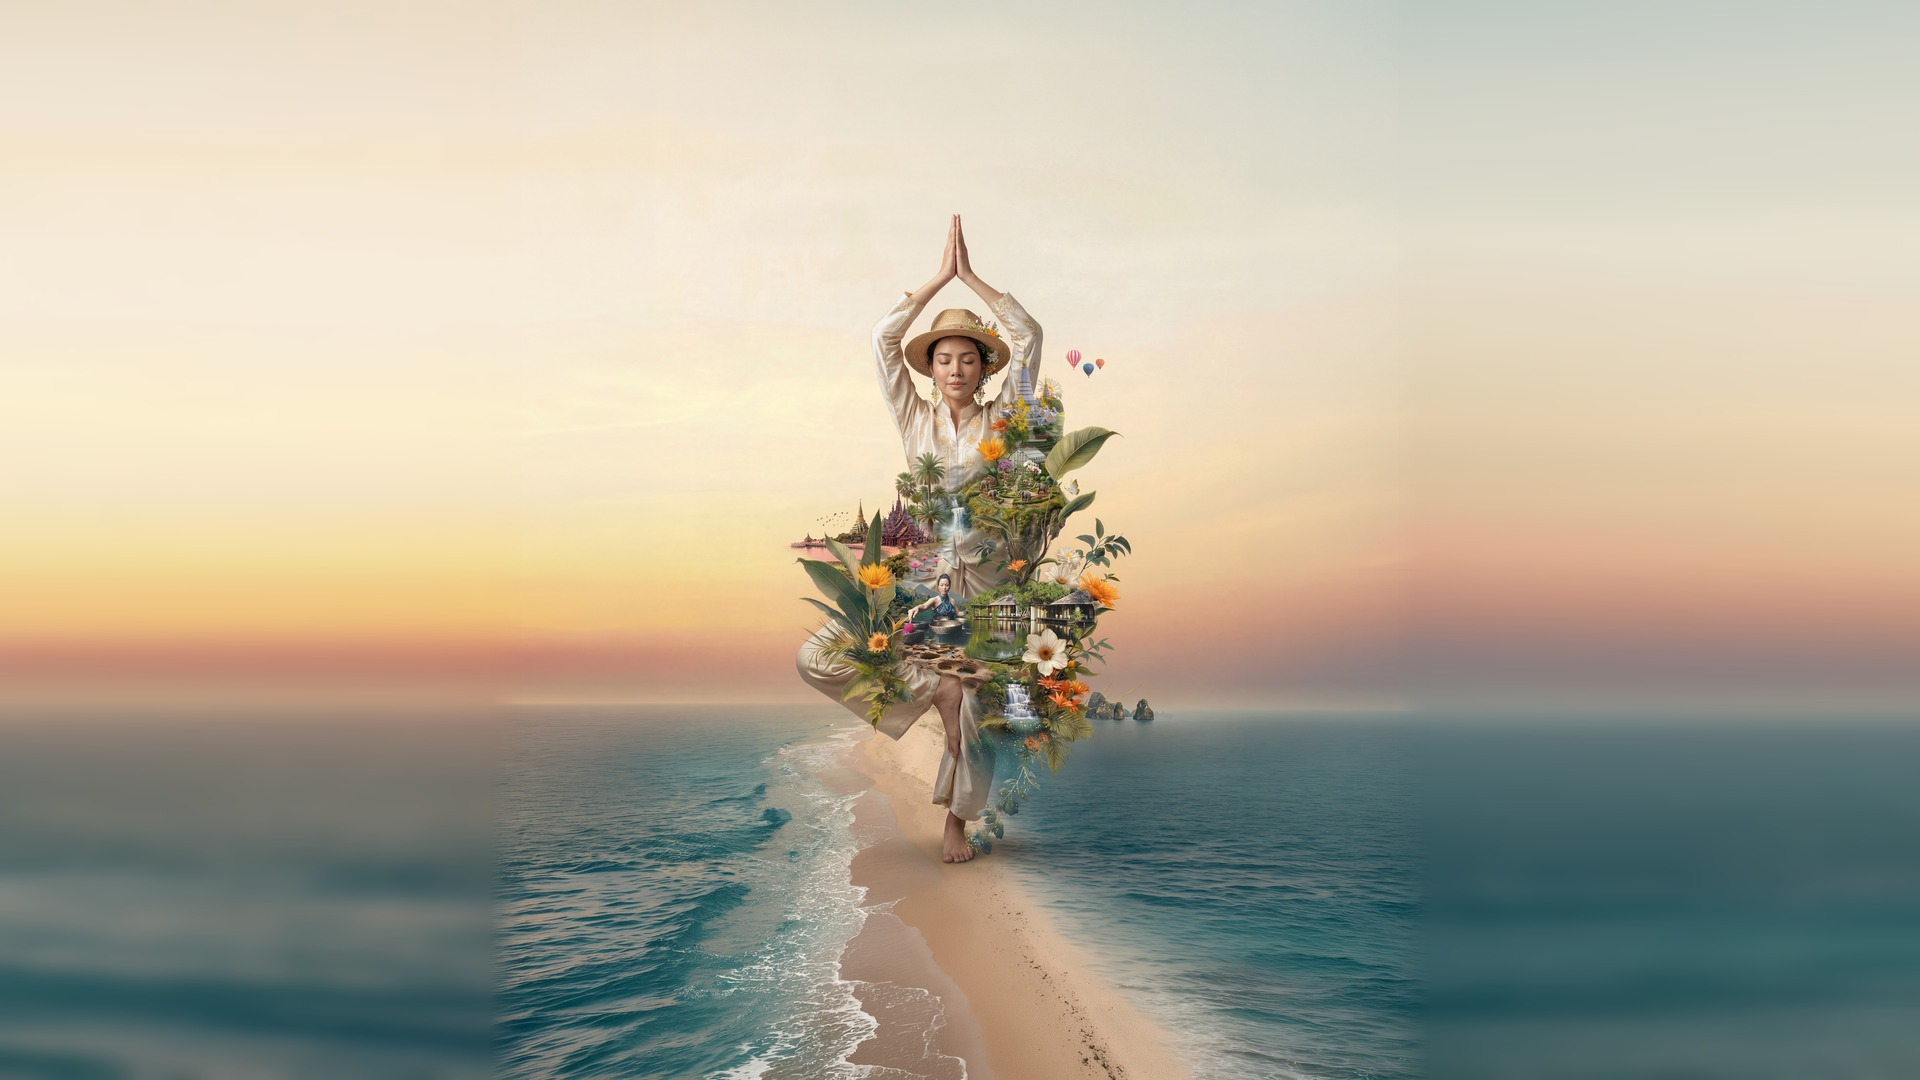
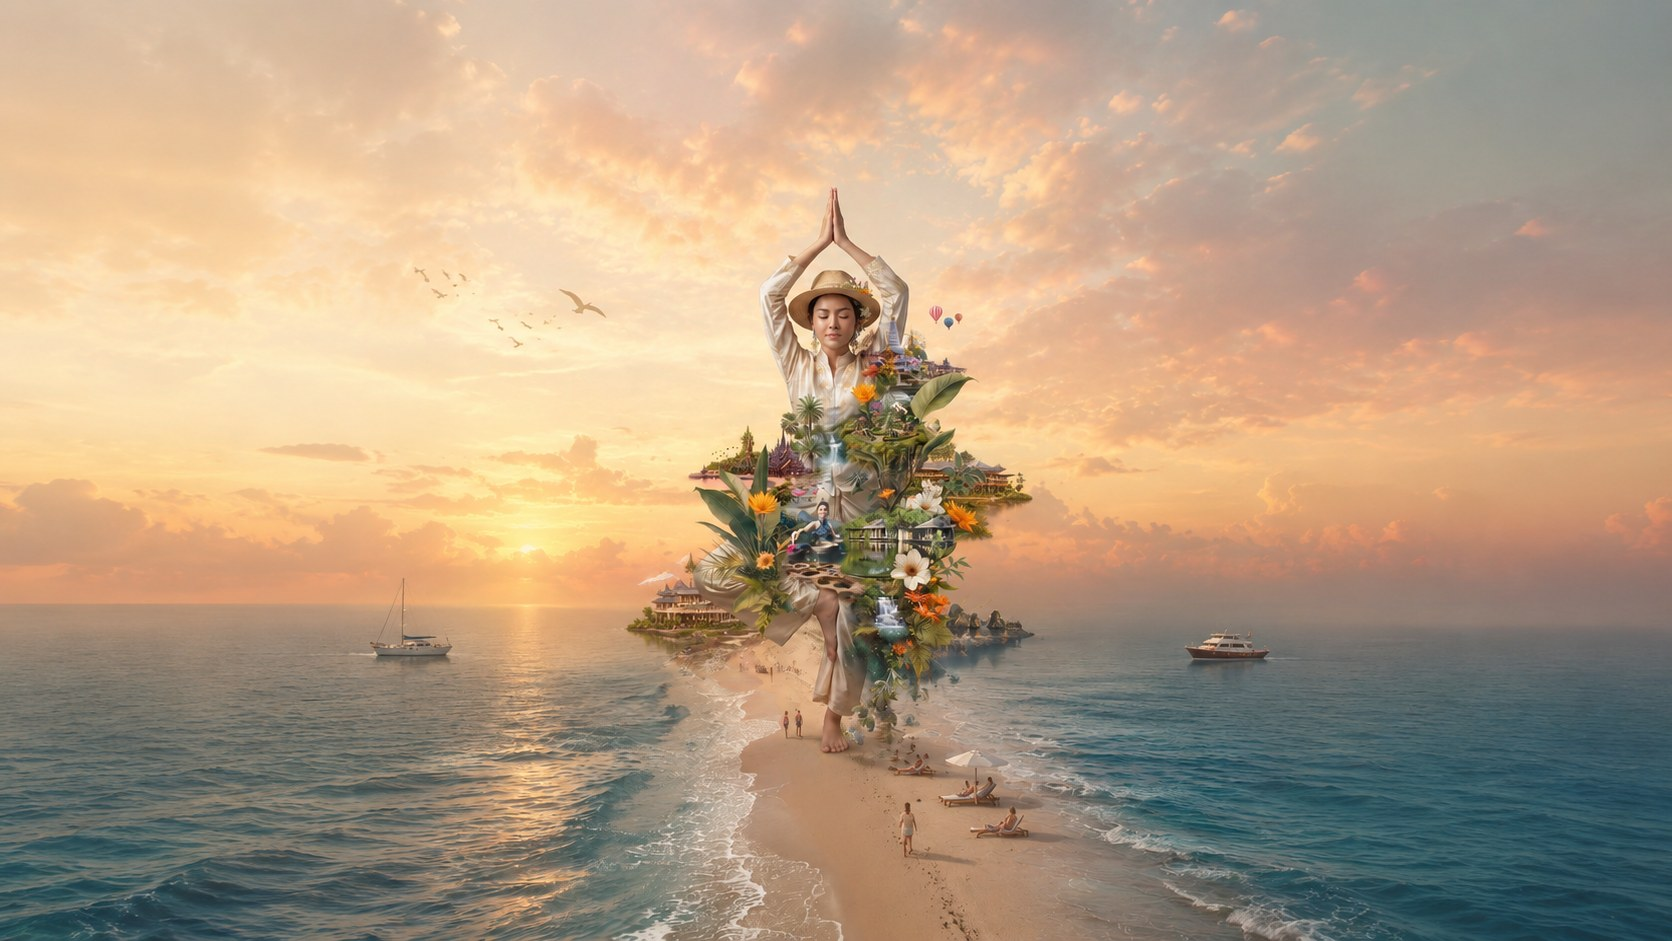
dashboard: layout refine — survey/offset/daily/benefits flex, footer center, sweep clip fix
- Survey Respondents enlarged, Carbon Offset compact (left column)
- Daily Waste enlarged, Benefits anchored to bottom edge (right column)
- Footer "Powered by" centered; Live + ISO note grouped left
- Carbon Neutral badge white bg + right-aligned; meta one line; bigger sponsor logo
- Donuts enlarged (scope + waste); Zero Waste logo moved into waste card
- Fix: Live sweep escaping container in fit-natural zoom (removed overflow:visible)
- BG updated to V.2

diff --git a/index.html b/index.html
@@ -11,10 +11,10 @@
 
 :root{
   --cream:#FBEFDD;--peach:#F4C99E;--coral:#E8956B;--rose:#D97B6C;
-  --teal:#5FA8A2;--teal-d:#2E6360;--gold:#F2B84B;
-  --ink:#3A2A22;--ink-soft:#6b554a;
-  --glass:rgba(255,255,255,.52);--glass-line:rgba(255,255,255,.62);
-  --glass-soft:rgba(255,255,255,.6);
+  --teal:#5FA8A2;--teal-d:#123f3b;--gold:#F2B84B;
+  --ink:#123f3b;--ink-soft:#405955;
+  --glass:rgba(255,255,255,.86);--glass-line:rgba(255,255,255,.72);
+  --glass-soft:rgba(255,255,255,.92);
   --s1:#E8956B;--s2:#F2B84B;--s3:#4E9E9A;
   --shadow:0 10px 36px rgba(60,40,30,.18);--radius:20px;
 }
@@ -30,124 +30,138 @@ body{font-family:'TATSana','Segoe UI',system-ui,-apple-system,sans-serif;color:v
 .leaf{position:absolute;top:-8vh;will-change:transform;animation:fall linear infinite}
 @keyframes fall{0%{transform:translateY(-10vh) translateX(0) rotate(0)}100%{transform:translateY(112vh) translateX(12vw) rotate(420deg)}}
 
-#app{position:relative;height:100vh;width:100vw;display:flex;flex-direction:column;padding:clamp(8px,1.1vw,18px);gap:clamp(6px,.8vw,12px)}
+#app{position:relative;height:100vh;width:100vw;display:flex;flex-direction:column;padding:clamp(5px,.85vh,11px) clamp(6px,.7vw,12px);gap:clamp(3px,.5vh,7px)}
 .glass{position:relative;background:var(--glass);border:1px solid var(--glass-line);border-radius:var(--radius);backdrop-filter:blur(14px) saturate(125%);-webkit-backdrop-filter:blur(14px) saturate(125%);box-shadow:var(--shadow);overflow:hidden}
 .sweep::before{content:'';position:absolute;top:0;left:-60%;width:40%;height:100%;background:linear-gradient(105deg,transparent,rgba(255,255,255,.5),transparent);transform:skewX(-18deg);animation:sweep 8s ease-in-out infinite;pointer-events:none}
 @keyframes sweep{0%,62%{left:-60%}82%,100%{left:130%}}
 
 /* header */
-header{display:flex;align-items:center;gap:clamp(8px,1.2vw,18px);padding:clamp(7px,.7vw,12px) clamp(12px,1.4vw,22px)}
-.logo-event{height:clamp(38px,4.6vw,64px);filter:drop-shadow(0 4px 10px rgba(0,0,0,.22))}
+header{display:flex;align-items:center;gap:clamp(8px,1.2vw,18px);padding:clamp(4px,.7vh,9px) clamp(12px,1.4vw,22px)}
+.logo-event{height:clamp(38px,5vh,56px);width:auto;object-fit:contain;filter:drop-shadow(0 4px 10px rgba(0,0,0,.18))}
 .titles{flex:1;min-width:0}
-.titles h1{font-weight:700;line-height:1.04;font-size:clamp(17px,2.2vw,34px);color:var(--teal-d);text-shadow:0 1px 2px rgba(255,255,255,.55)}
-.meta{display:flex;flex-wrap:wrap;gap:clamp(6px,.9vw,15px);margin-top:4px;font-size:clamp(10px,.98vw,14px);color:#34504c;font-weight:700;text-shadow:0 1px 1px rgba(255,255,255,.5)}
+.titles h1{font-weight:800;line-height:1.02;font-size:clamp(20px,2.2vw,34px);color:var(--teal-d);letter-spacing:.2px;text-shadow:0 1px 2px rgba(255,255,255,.6)}
+.meta{display:flex;flex-wrap:nowrap;white-space:nowrap;gap:clamp(5px,.7vw,11px);margin-top:3px;line-height:1.2;font-size:clamp(10px,.82vw,13px);color:#2c4a47;font-weight:700;text-shadow:0 1px 1px rgba(255,255,255,.55)}
 .meta b{color:var(--teal-d)}
 .meta span{display:inline-flex;align-items:center;gap:6px}
+.meta>span:not(:first-child)::before{content:"|";color:rgba(44,74,71,.4);font-weight:400;margin-right:clamp(3px,.45vw,7px)}
 .head-right{display:flex;align-items:center;gap:clamp(8px,1vw,15px)}
-.chip-white{display:flex;align-items:center;gap:8px;background:rgba(255,255,255,.85);border-radius:11px;padding:5px 10px}
-.chip-white small{font-size:clamp(9px,.8vw,12px);color:var(--ink-soft);font-weight:700;white-space:nowrap}
-.chip-white img{height:clamp(30px,3.4vw,50px)}
+.chip-white{display:flex;flex-direction:column;align-items:center;gap:3px}
+.chip-white small{font-size:clamp(9px,1vh,12px);color:var(--ink-soft);font-weight:700;white-space:nowrap;letter-spacing:.2px}
+.chip-white img{height:clamp(40px,4vw,54px);width:auto;object-fit:contain;display:block}
 .clock{text-align:right;color:var(--teal-d);text-shadow:0 1px 2px rgba(255,255,255,.5)}
 .clock .d{color:var(--ink-soft)}
-.clock .t{font-weight:700;font-size:clamp(15px,1.8vw,28px);font-variant-numeric:tabular-nums;letter-spacing:1px}
-.clock .d{font-size:clamp(9px,.9vw,12px);opacity:.92}
-.status{display:inline-flex;align-items:center;gap:6px;padding:5px 11px;border-radius:999px;font-size:clamp(9px,.9vw,12px);font-weight:700;background:rgba(255,255,255,.78);border:1px solid var(--glass-line);color:var(--teal-d);white-space:nowrap}
+.clock .t{font-weight:800;font-size:clamp(17px,1.9vw,30px);font-variant-numeric:tabular-nums;letter-spacing:1px}
+.clock .d{font-size:clamp(10px,1.25vh,13px);opacity:.95}
+.status{display:inline-flex;align-items:center;gap:6px;padding:6px 13px;border-radius:999px;font-size:clamp(11px,.95vw,14px);font-weight:800;background:rgba(255,255,255,.85);border:1px solid var(--glass-line);color:var(--teal-d);white-space:nowrap}
 .status .dot{width:8px;height:8px;border-radius:50%;background:#9be29b;animation:pulse 1.8s infinite}
 .status.live .dot{background:#7CFC8A}.status.upcoming .dot{background:var(--gold)}.status.ended .dot{background:#ccc;animation:none}
 @keyframes pulse{0%{box-shadow:0 0 0 0 rgba(124,252,138,.7)}70%{box-shadow:0 0 0 10px rgba(124,252,138,0)}100%{box-shadow:0 0 0 0 rgba(124,252,138,0)}}
 .icon-btn{height:clamp(32px,3.4vw,46px);width:clamp(32px,3.4vw,46px);display:grid;place-items:center;border-radius:12px;cursor:pointer;background:rgba(255,255,255,.78);border:1px solid var(--glass-line);color:var(--teal-d);font-size:clamp(14px,1.4vw,19px);transition:.2s}
 .icon-btn:hover{background:rgba(255,255,255,.42);transform:translateY(-2px)}
+.head-div{width:1px;align-self:center;height:clamp(26px,3vh,40px);background:rgba(58,42,34,.2);flex:none}
 
 /* body */
-main{flex:1;min-height:0;display:grid;grid-template-columns:minmax(300px,1.2fr) .5fr minmax(320px,1.2fr);gap:clamp(8px,1vw,14px)}
-.col{display:flex;flex-direction:column;gap:clamp(6px,.8vw,12px);min-height:0}
+main{flex:1;min-height:0;display:grid;grid-template-columns:minmax(300px,1.2fr) .5fr minmax(320px,1.2fr);gap:clamp(7px,.8vw,12px)}
+.col{display:flex;flex-direction:column;gap:clamp(3px,.5vh,7px);min-height:0}
 .col-center{pointer-events:none}
-.card-pad{padding:clamp(9px,1vw,16px);height:100%;display:flex;flex-direction:column}
-.card-title{display:flex;align-items:center;gap:8px;font-weight:700;font-size:clamp(11px,1.05vw,16px);color:var(--teal-d);margin-bottom:clamp(3px,.45vw,7px);letter-spacing:.2px}
+#app.fit-natural{height:auto!important}
+#app.fit-natural main{min-height:0}
+#app.fit-natural .col>section{flex:0 0 auto!important}
+#app.fit-natural .col-left>section:first-of-type{flex:1 1 auto!important}
+#app.fit-natural .col-right>section:last-child{flex:1 1 auto!important}
+.card-pad{padding:clamp(4px,.7vh,9px) clamp(8px,.78vw,13px);height:100%;display:flex;flex-direction:column}
+.card-title{display:flex;align-items:center;gap:9px;font-weight:800;font-size:clamp(13px,1.65vh,17px);color:var(--teal-d);margin-bottom:clamp(2px,.35vw,6px);letter-spacing:.2px}
 .card-title .em{font-size:1.12em}
 /* SVG icons */
 .ic{width:1.2em;height:1.2em;flex:none;vertical-align:-.2em;fill:none;stroke:currentColor;stroke-width:2;stroke-linecap:round;stroke-linejoin:round}
 .ic-fill{fill:currentColor;stroke:none}
-.ic-lg{width:clamp(24px,2.3vw,34px);height:clamp(24px,2.3vw,34px);stroke-width:1.7}
+.ic-lg{width:clamp(17px,2.2vh,24px);height:clamp(17px,2.2vh,24px);stroke-width:1.7}
 .card-title svg.ic{color:var(--teal-d)}
-.section-tag{display:inline-flex;align-items:center;gap:8px;align-self:flex-start;color:#fff;font-weight:700;font-size:clamp(11px,1.1vw,16px);padding:6px 14px;border-radius:11px;letter-spacing:.4px;text-shadow:0 1px 5px rgba(0,0,0,.25)}
+.section-tag{display:inline-flex;align-items:center;gap:9px;align-self:flex-start;color:#fff;font-weight:800;font-size:clamp(13px,1.65vh,17px);padding:clamp(4px,.6vh,7px) 15px;border-radius:11px;letter-spacing:.4px;text-shadow:0 1px 5px rgba(0,0,0,.28)}
 .tag-emis{background:linear-gradient(135deg,#2E6360,#4E9E9A)}
 .tag-waste{background:linear-gradient(135deg,#3E86C9,#5FB97A)}
-.zw-header{display:flex;align-items:center;gap:10px}
+.zw-header{display:flex;align-items:center;gap:10px;justify-content:space-between}
+.col-head{display:flex;align-items:center;gap:clamp(8px,.9vw,14px);flex-wrap:wrap;justify-content:space-between}
 .zw-logo{height:clamp(40px,4.2vw,60px);width:clamp(40px,4.2vw,60px);flex:none;border-radius:50%;background:rgba(255,255,255,.9);display:grid;place-items:center;box-shadow:var(--shadow);border:1px solid var(--glass-line)}
 .zw-logo img{width:86%;height:86%;object-fit:contain}
+.zw-logo-card{position:absolute;top:clamp(6px,1vh,12px);right:clamp(8px,.9vw,16px);z-index:3}
 
 /* respondents */
-.resp-grid{display:grid;grid-template-columns:repeat(4,1fr);gap:clamp(6px,.7vw,10px)}
-.resp{background:var(--glass-soft);border:1px solid var(--glass-line);border-radius:14px;padding:clamp(7px,.8vw,12px);text-align:center;display:flex;flex-direction:column;gap:2px}
-.resp .ri{font-size:clamp(15px,1.5vw,22px);color:var(--teal-d)}
-.resp .rl{font-size:clamp(9px,.85vw,12px);color:var(--ink-soft);font-weight:700}
-.resp .rv{font-weight:700;font-size:clamp(17px,1.9vw,30px);color:var(--teal-d);font-variant-numeric:tabular-nums;line-height:1}
-.resp .rp{font-size:clamp(8px,.78vw,11px);color:#fff;background:var(--teal);border-radius:999px;padding:1px 8px;align-self:center;margin-top:2px}
+.resp-grid{display:grid;grid-template-columns:repeat(4,1fr);gap:clamp(6px,.7vw,10px);flex:1;min-height:0;align-content:stretch}
+.resp{background:var(--glass-soft);border:1px solid var(--glass-line);border-radius:14px;padding:clamp(5px,.9vh,11px) clamp(6px,.7vw,11px);text-align:center;display:flex;flex-direction:column;justify-content:center;gap:clamp(2px,.6vh,8px)}
+.resp .ri{font-size:clamp(14px,2vh,22px);color:var(--teal-d)}
+.resp .rl{font-size:clamp(10px,1.25vh,13px);color:var(--ink-soft);font-weight:700}
+.resp .rv{font-weight:900;font-size:clamp(18px,2.5vh,28px);color:var(--teal-d);font-variant-numeric:tabular-nums;line-height:1}
+.resp .rp{font-size:clamp(9px,.78vw,12px);color:#fff;font-weight:700;background:var(--teal);border-radius:999px;padding:2px 9px;align-self:center;margin-top:2px}
 .resp.total{background:linear-gradient(135deg,rgba(232,149,107,.25),rgba(242,184,75,.18));border-color:rgba(232,149,107,.5)}
 .resp.total .rv{color:var(--coral)}.resp.total .rp{background:var(--coral)}
 
 /* emissions */
-.emis-top{text-align:center}
-.emis-num{font-weight:700;line-height:.9;font-size:clamp(36px,3.9vw,62px);background:linear-gradient(160deg,#2E6360,#4E9E9A 55%,#E8956B);-webkit-background-clip:text;background-clip:text;color:transparent;font-variant-numeric:tabular-nums}
-.emis-unit{font-size:clamp(12px,1.3vw,20px);font-weight:700;color:var(--teal-d)}
-.neutral-badge{display:inline-flex;align-items:center;gap:8px;margin-top:6px;padding:5px 14px;border-radius:999px;background:rgba(78,158,154,.16);border:1px solid rgba(78,158,154,.4);color:var(--teal-d);font-weight:700;font-size:clamp(9px,.95vw,14px)}
+.emis-top{display:flex;align-items:center;justify-content:space-between;gap:clamp(8px,1vw,18px)}
+.emis-kpi{display:flex;align-items:baseline;gap:7px}
+.emis-num{font-weight:900;line-height:.88;font-size:clamp(28px,3.3vh,48px);background:linear-gradient(160deg,#173f3d,#2E7d77 55%,#E8956B);-webkit-background-clip:text;background-clip:text;color:transparent;font-variant-numeric:tabular-nums}
+.emis-unit{font-size:clamp(13px,2vh,20px);font-weight:800;color:var(--teal-d)}
+.neutral-badge{display:inline-flex;align-items:center;gap:8px;padding:clamp(3px,.5vh,6px) 14px;border-radius:999px;background:rgba(255,255,255,.94);border:1px solid var(--glass-line);color:var(--teal-d);font-weight:800;font-size:clamp(11px,1.35vh,14px);white-space:nowrap;flex:none;box-shadow:0 4px 14px rgba(60,40,30,.16)}
 .neutral-badge img{height:clamp(18px,1.9vw,28px)}
-.emis-body{flex:1;display:grid;grid-template-columns:auto 1fr;gap:clamp(12px,1.5vw,26px);align-items:center;margin-top:clamp(6px,.8vw,12px);min-height:0}
-.donut{position:relative;width:clamp(110px,9.5vw,165px);aspect-ratio:1}
+.emis-body{flex:1;display:grid;grid-template-columns:auto 1fr;gap:clamp(12px,1.5vw,26px);align-items:center;align-content:center;margin-top:clamp(6px,.8vw,12px);min-height:0}
+.donut{position:relative;width:clamp(150px,30vh,340px);aspect-ratio:1;align-self:center}
 .donut svg{width:100%;height:100%}
-.donut-center{position:absolute;inset:0;display:grid;place-content:center;text-align:center}
-.donut-center .dc-n{font-weight:700;font-size:clamp(18px,1.9vw,32px);color:var(--teal-d);font-variant-numeric:tabular-nums;line-height:1}
-#waste-total{font-size:clamp(15px,1.55vw,25px)}
-.donut-center .dc-l{font-size:clamp(8px,.78vw,11px);color:var(--ink-soft);text-transform:uppercase;letter-spacing:.5px;margin-top:2px}
-.scope-list{display:flex;flex-direction:column;gap:clamp(6px,.85vw,12px);flex:1;justify-content:center}
-.scope-row{display:grid;grid-template-columns:auto 1fr auto;align-items:center;gap:clamp(9px,1vw,15px);background:rgba(255,255,255,.45);border:1px solid rgba(255,255,255,.6);border-radius:14px;padding:clamp(7px,.85vw,13px) clamp(11px,1.3vw,18px)}
-.scope-row .sicon{width:clamp(34px,3vw,48px);height:clamp(34px,3vw,48px);border-radius:12px;display:grid;place-items:center;flex:none}
+.donut-center{position:absolute;inset:0;display:flex;flex-direction:column;align-items:center;justify-content:center;text-align:center;padding:0 6%}
+.donut-center .dc-n{font-weight:900;font-size:clamp(14px,1.7vh,20px);color:var(--teal-d);font-variant-numeric:tabular-nums;line-height:1;letter-spacing:-.3px}
+#scope-total{font-size:clamp(30px,4.8vh,56px)}
+#waste-total{font-size:clamp(24px,3.6vh,42px)}
+.donut-center .dc-l{font-size:clamp(8px,.85vh,11px);color:var(--ink-soft);font-weight:700;text-transform:uppercase;letter-spacing:.4px;line-height:1.1;margin-top:3px}
+.scope-list{display:flex;flex-direction:column;gap:clamp(7px,1.3vh,17px);flex:1;justify-content:center}
+.scope-row{display:grid;grid-template-columns:auto 1fr auto;align-items:center;gap:clamp(9px,1vw,15px);background:rgba(255,255,255,.5);border:1px solid rgba(255,255,255,.65);border-radius:14px;padding:clamp(9px,1.5vh,19px) clamp(10px,1.2vw,16px)}
+.scope-row .sicon{width:clamp(20px,2.7vh,32px);height:clamp(20px,2.7vh,32px);border-radius:11px;display:grid;place-items:center;flex:none}
 .scope-row .sicon .ic{width:62%;height:62%;stroke-width:2.1}
-.scope-row .sname{font-weight:700;font-size:clamp(13px,1.2vw,19px);color:var(--ink)}
-.scope-row .sub{font-size:clamp(9.5px,.86vw,12.5px);color:var(--ink-soft);margin-top:1px}
+.scope-row .sname{font-weight:800;font-size:clamp(12px,1.4vh,16px);color:var(--ink)}
+.scope-row .sub{font-size:clamp(10px,1.05vh,12.5px);color:var(--ink-soft);font-weight:600;margin-top:1px}
 .scope-row .sval{text-align:right}
-.scope-row .sval b{font-weight:700;font-size:clamp(15px,1.5vw,24px);color:var(--teal-d);font-variant-numeric:tabular-nums}
-.scope-row .sval i{font-style:normal;display:block;font-size:clamp(9px,.82vw,12px);color:var(--ink-soft);margin-top:1px}
+.scope-row .sval b{font-weight:800;font-size:clamp(13px,1.7vh,21px);color:var(--teal-d);font-variant-numeric:tabular-nums}
+.scope-row .sval i{font-style:normal;display:block;font-size:clamp(9px,1vh,12px);color:var(--ink-soft);font-weight:600;margin-top:1px}
 
 /* offset / reduction split */
 .split{display:grid;grid-template-columns:1fr auto 1fr;align-items:center;gap:clamp(8px,1vw,16px);flex:1}
 .split .half{text-align:center}
-.split .eq{font-size:clamp(20px,2.2vw,38px);font-weight:700;color:var(--teal-d);opacity:.6}
-.bignum{font-weight:700;font-size:clamp(22px,2.2vw,37px);color:#fff;line-height:.95;font-variant-numeric:tabular-nums;text-shadow:0 1px 2px rgba(40,60,58,.55),0 3px 12px rgba(40,60,58,.4)}
-.smlnum{font-weight:700;font-size:clamp(20px,2.1vw,36px);color:var(--teal-d);line-height:.95;font-variant-numeric:tabular-nums}
-.unit-s{font-size:clamp(10px,1vw,15px);font-weight:700;color:var(--teal-d)}
-.lbl-s{font-size:clamp(9px,.85vw,12px);color:var(--ink-soft);margin-top:3px}
+.split .eq{font-size:clamp(26px,3.4vh,52px);font-weight:800;color:var(--teal-d);opacity:.65}
+.bignum{font-weight:900;font-size:clamp(24px,3.7vh,46px);color:#fff;line-height:.95;font-variant-numeric:tabular-nums;text-shadow:0 1px 2px rgba(20,45,43,.6),0 3px 12px rgba(20,45,43,.45)}
+.smlnum{font-weight:900;font-size:clamp(24px,3.7vh,46px);color:var(--teal-d);line-height:.95;font-variant-numeric:tabular-nums}
+.unit-s{font-size:clamp(12px,1.6vh,18px);font-weight:800;color:var(--teal-d)}
+.lbl-s{font-size:clamp(10px,1.35vh,15px);color:var(--ink-soft);font-weight:600;margin-top:4px}
 .tree-emoji{font-size:clamp(20px,2.2vw,34px);margin-bottom:2px}
+.split .ic-lg{width:clamp(22px,3.4vh,42px);height:clamp(22px,3.4vh,42px)}
 
 /* waste donut + legend */
-.chart-row{display:grid;grid-template-columns:auto 1fr;gap:clamp(8px,1.1vw,16px);align-items:center}
-.legend{display:flex;flex-direction:column;gap:clamp(4px,.5vw,8px);flex:1;justify-content:center}
-.lg{display:grid;grid-template-columns:auto 1fr auto;align-items:center;gap:clamp(8px,.9vw,13px);background:rgba(255,255,255,.45);border:1px solid rgba(255,255,255,.6);border-radius:12px;padding:clamp(4px,.5vw,8px) clamp(9px,1.1vw,15px)}
-.lg .lic{width:clamp(26px,2.3vw,34px);height:clamp(26px,2.3vw,34px);border-radius:9px;display:grid;place-items:center;flex:none}
+.chart-row{display:grid;grid-template-columns:auto 1fr;gap:clamp(10px,1.3vw,20px);align-items:center;flex:1;min-height:0}
+.legend{display:flex;flex-direction:column;gap:clamp(2px,.35vh,6px);flex:1;justify-content:center}
+.lg{display:grid;grid-template-columns:auto 1fr auto;align-items:center;gap:clamp(8px,.9vw,13px);background:rgba(255,255,255,.5);border:1px solid rgba(255,255,255,.65);border-radius:12px;padding:clamp(2px,.38vh,6px) clamp(9px,1.1vw,14px)}
+.lg .lic{width:clamp(18px,2.2vh,24px);height:clamp(18px,2.2vh,24px);border-radius:8px;display:grid;place-items:center;flex:none}
 .lg .lic .ic{width:60%;height:60%;stroke-width:2.1}
-.lg .ln{color:var(--ink);font-weight:700;font-size:clamp(11px,1.05vw,16px)}
-.lg .lv{font-weight:700;color:var(--teal-d);font-variant-numeric:tabular-nums;font-size:clamp(13px,1.3vw,21px);text-align:right}
-.lg .lp{color:var(--ink-soft);font-size:.6em;margin-left:5px;font-weight:700}
+.lg .ln{color:var(--ink);font-weight:800;font-size:clamp(11px,1.3vh,15px)}
+.lg .lv{font-weight:800;color:var(--teal-d);font-variant-numeric:tabular-nums;font-size:clamp(12px,1.6vh,19px);text-align:right}
+.lg .lp{color:var(--ink-soft);font-size:.6em;margin-left:6px;font-weight:700}
 
 /* bar chart */
 .legend-chips{display:flex;flex-wrap:wrap;gap:8px;margin-left:auto;font-weight:400}
-.lchip{display:inline-flex;align-items:center;gap:6px;font-size:clamp(10px,.98vw,14px);font-weight:700;color:var(--ink)}
+.lchip{display:inline-flex;align-items:center;gap:5px;font-size:clamp(10px,1.2vh,13px);font-weight:700;color:var(--ink)}
 .lchip .sw{width:10px;height:10px;border-radius:3px}
-.barchart{width:100%;flex:1;min-height:clamp(110px,11vw,200px)}
+.barchart{width:100%;flex:1;min-height:clamp(50px,6.9vh,100px)}
 
 /* benefits */
-.benefits{display:grid;grid-template-columns:repeat(4,1fr);gap:clamp(6px,.7vw,10px)}
-.benefit{background:var(--glass-soft);border:1px solid var(--glass-line);border-radius:12px;padding:clamp(5px,.6vw,9px);text-align:center;display:flex;flex-direction:column;align-items:center;gap:3px}
-.benefit .bi{font-size:clamp(15px,1.5vw,22px);color:var(--teal)}
-.benefit .bl{font-size:clamp(8.5px,.82vw,12px);color:var(--ink);font-weight:700;line-height:1.15}
+.benefits{display:grid;grid-template-columns:repeat(4,1fr);gap:clamp(5px,.6vw,9px);flex:1;min-height:0;align-content:stretch}
+.benefit{background:var(--glass-soft);border:1px solid var(--glass-line);border-radius:11px;padding:clamp(4px,.5vw,8px);text-align:center;display:flex;flex-direction:column;align-items:center;justify-content:center;gap:clamp(2px,.7vh,9px)}
+.benefit .bi{font-size:clamp(13px,1.85vh,20px);color:var(--teal)}
+.benefit .bl{font-size:clamp(10px,1.05vh,12.5px);color:var(--ink);font-weight:700;line-height:1.15}
 
 /* footer */
-footer{display:flex;align-items:center;justify-content:space-between;gap:10px;padding:0 clamp(8px,1vw,14px);font-size:clamp(9px,.88vw,12px)}
-.upd{background:rgba(255,255,255,.8);color:var(--ink-soft);padding:5px 12px;border-radius:11px;font-weight:700;border:1px solid var(--glass-line)}
-.powered{display:flex;align-items:center;gap:9px;background:rgba(255,255,255,.9);color:var(--ink-soft);padding:5px 13px;border-radius:11px;font-weight:700;border:1px solid var(--glass-line)}
-.powered img{height:clamp(18px,1.9vw,26px);width:auto}
-.powered .cf{height:clamp(24px,2.5vw,34px)}
+footer{display:grid;grid-template-columns:1fr auto 1fr;align-items:center;gap:10px;padding:0 clamp(8px,1vw,14px);font-size:clamp(11px,.95vw,14px)}
+.foot-left{display:flex;align-items:center;gap:clamp(6px,.7vw,12px);flex-wrap:wrap;justify-self:start}
+.powered{justify-self:center}
+.upd{background:rgba(255,255,255,.8);color:var(--ink-soft);padding:4px 11px;border-radius:11px;font-weight:700;border:1px solid var(--glass-line)}
+.powered{display:flex;align-items:center;gap:9px;background:rgba(255,255,255,.9);color:var(--ink-soft);padding:4px 12px;border-radius:11px;font-weight:700;border:1px solid var(--glass-line)}
+.powered img{height:clamp(16px,2.4vh,24px);width:auto}
+.powered .cf{height:clamp(22px,3vh,30px)}
 .powered .pw-div{width:1px;height:clamp(20px,2vw,28px);background:rgba(58,42,34,.18)}
 
 .flash{animation:flash 1.1s ease}
@@ -160,6 +174,7 @@ footer{display:flex;align-items:center;justify-content:space-between;gap:10px;pa
 @media (max-width:820px){
   body{overflow:auto}#app{height:auto;min-height:100vh}
   header{flex-wrap:wrap}.head-right{order:3;width:100%;justify-content:space-between}
+  .meta{flex-wrap:wrap;white-space:normal}
   main{grid-template-columns:1fr}.col-center{display:none}.col-left,.col-right{grid-column:1}
   .resp-grid,.benefits{grid-template-columns:repeat(2,1fr)}
   /* คอลัมน์เดียว height auto → การ์ดต้องสูงตามเนื้อหา ไม่งั้น flex-basis:0 ยุบหาย */
@@ -218,6 +233,7 @@ footer{display:flex;align-items:center;justify-content:space-between;gap:10px;pa
     </div>
     <div class="head-right">
       <div class="chip-white"><small>Supported by</small><img src="assets/img/logo-sponsor.png" onerror="this.style.display='none'"/></div>
+      <span class="head-div"></span>
       <div id="ev-status" class="status upcoming"><span class="dot"></span><span id="ev-status-t">Upcoming</span></div>
       <div class="clock"><div class="t" id="clock-t">--:--:--</div><div class="d" id="clock-d">—</div></div>
       <div class="icon-btn" id="btn-fs" title="Fullscreen"><svg class="ic"><use href="#ic-expand"/></svg></div>
@@ -227,22 +243,21 @@ footer{display:flex;align-items:center;justify-content:space-between;gap:10px;pa
   <main>
     <!-- LEFT : event emissions -->
     <div class="col col-left">
-      <div class="section-tag tag-emis"><svg class="ic"><use href="#ic-cloud"/></svg> Event GHG Emissions Summary</div>
+      <div class="col-head">
+        <div class="section-tag tag-emis"><svg class="ic"><use href="#ic-cloud"/></svg> Event GHG Emissions Summary</div>
+        <div class="neutral-badge" id="neutral-badge"><img src="assets/img/carbon-neutral.webp" onerror="this.style.display='none'"/> Carbon Neutral Event</div>
+      </div>
 
-      <section class="glass sweep" style="flex:0 0 auto">
+      <section class="glass sweep" style="flex:1 1 0;min-height:0">
         <div class="card-pad">
           <div class="card-title"><svg class="ic"><use href="#ic-users"/></svg> Survey Respondents</div>
           <div class="resp-grid" id="resp-grid"></div>
         </div>
       </section>
 
-      <section class="glass sweep" style="flex:1 1 auto;min-height:0">
+      <section class="glass sweep" style="flex:1.35 1 0;min-height:0">
         <div class="card-pad">
           <div class="card-title"><svg class="ic"><use href="#ic-chart"/></svg> Total GHG Emissions</div>
-          <div class="emis-top">
-            <span class="emis-num" id="emis-num">0</span> <span class="emis-unit" id="emis-unit">tCO₂e</span>
-            <div class="neutral-badge" id="neutral-badge"><img src="assets/img/carbon-neutral.webp" onerror="this.style.display='none'"/> Carbon Neutral Event</div>
-          </div>
           <div class="emis-body">
             <div class="donut">
               <svg viewBox="0 0 120 120" id="scope-donut"></svg>
@@ -271,15 +286,15 @@ footer{display:flex;align-items:center;justify-content:space-between;gap:10px;pa
     <!-- RIGHT : waste -->
     <div class="col col-right">
       <div class="zw-header">
-        <span class="zw-logo"><img src="assets/img/logo-zerowaste.png" onerror="this.parentElement.style.display='none'"/></span>
         <span class="section-tag tag-waste"><svg class="ic"><use href="#ic-leaf"/></svg> GHG Reduction from Waste Separation</span>
       </div>
 
       <section class="glass sweep" style="flex:1.5 1 0;min-height:0">
+        <span class="zw-logo zw-logo-card"><img src="assets/img/logo-zerowaste.png" onerror="this.parentElement.style.display='none'"/></span>
         <div class="card-pad">
           <div class="card-title"><svg class="ic"><use href="#ic-layers"/></svg> Waste by Category <span style="font-weight:400;color:var(--ink-soft);font-size:.82em">· cumulative</span></div>
           <div class="chart-row">
-            <div class="donut" style="width:clamp(108px,9.3vw,150px)">
+            <div class="donut" style="width:clamp(120px,18vh,200px)">
               <svg viewBox="0 0 120 120" id="waste-donut"></svg>
               <div class="donut-center"><div class="dc-n" id="waste-total">0</div><div class="dc-l">total kg</div></div>
             </div>
@@ -288,7 +303,7 @@ footer{display:flex;align-items:center;justify-content:space-between;gap:10px;pa
         </div>
       </section>
 
-      <section class="glass sweep" style="flex:1.35 1 0;min-height:0">
+      <section class="glass sweep" style="flex:1.7 1 0;min-height:0">
         <div class="card-pad">
           <div class="card-title"><svg class="ic"><use href="#ic-calendar"/></svg> Daily Waste by Type <span style="font-weight:400;color:var(--ink-soft);font-size:.82em">· kg</span>
             <span class="legend-chips" id="bar-legend"></span></div>
@@ -307,7 +322,7 @@ footer{display:flex;align-items:center;justify-content:space-between;gap:10px;pa
         </div>
       </section>
 
-      <section class="glass sweep" style="flex:0 0 auto">
+      <section class="glass sweep" style="flex:.8 1 0;min-height:0">
         <div class="card-pad">
           <div class="card-title"><svg class="ic"><use href="#ic-star"/></svg> Benefits of Waste Separation</div>
           <div class="benefits" id="benefits"></div>
@@ -317,9 +332,11 @@ footer{display:flex;align-items:center;justify-content:space-between;gap:10px;pa
   </main>
 
   <footer>
-    <span class="upd">Live · updated <span id="upd-time">—</span> · auto-refresh 30s</span>
+    <span class="foot-left">
+      <span class="upd">Live · updated <span id="upd-time">—</span> · auto-refresh 30s</span>
+      <span class="upd" style="opacity:.8" id="iso-note">ISO 14064-1:2018 · Carbon Neutral Event</span>
+    </span>
     <span class="powered">Powered by <img src="assets/img/logo-carbonmice.png" alt="carbonMICE"/><span class="pw-div"></span><img class="cf" src="assets/img/logo-cfhotels.png" alt="CF Hotels"/></span>
-    <span class="upd" style="opacity:.8" id="iso-note">ISO 14064-1:2018 · Carbon Neutral Event</span>
   </footer>
 </div>
 
@@ -353,16 +370,16 @@ function aInt(el,to){const from=parseInt(el.dataset.v||'0')||0,st=performance.no
 /* multi-segment donut */
 function donut(svgId,segs){const svg=document.getElementById(svgId);
   const total=segs.reduce((a,s)=>a+s.value,0);let off=0;
-  let h=`<g transform="rotate(-90 60 60)"><circle cx="60" cy="60" r="52" fill="none" stroke="rgba(255,255,255,.5)" stroke-width="14"/>`;
+  let h=`<g transform="rotate(-90 60 60)"><circle cx="60" cy="60" r="52" fill="none" stroke="rgba(255,255,255,.5)" stroke-width="10"/>`;
   segs.forEach(s=>{const len=(total>0?s.value/total:0)*CIRC;
-    h+=`<circle cx="60" cy="60" r="52" fill="none" stroke="${s.color}" stroke-width="14" stroke-linecap="butt" stroke-dasharray="${len} ${CIRC-len}" stroke-dashoffset="${-off}"><animate attributeName="stroke-dasharray" from="0 ${CIRC}" to="${len} ${CIRC-len}" dur="1s" fill="freeze"/></circle>`;off+=len;});
+    h+=`<circle cx="60" cy="60" r="52" fill="none" stroke="${s.color}" stroke-width="10" stroke-linecap="butt" stroke-dasharray="${len} ${CIRC-len}" stroke-dashoffset="${-off}"><animate attributeName="stroke-dasharray" from="0 ${CIRC}" to="${len} ${CIRC-len}" dur="1s" fill="freeze"/></circle>`;off+=len;});
   svg.innerHTML=h+'</g>';}
 
 /* grouped bar chart with value labels */
 function groupedBar(svgId,days,series){const svg=document.getElementById(svgId);
   const r=svg.getBoundingClientRect();
   const W=Math.max(360,Math.round(r.width)||600),H=Math.max(150,Math.round(r.height)||210);
-  const fAx=Math.max(10,Math.min(15,H*0.06)),fVal=Math.max(11,Math.min(18,H*0.065)),fDay=Math.max(12,Math.min(20,H*0.072));
+  const fAx=Math.max(13,Math.min(16,H*0.063)),fVal=Math.max(13,Math.min(19,H*0.068)),fDay=Math.max(14,Math.min(21,H*0.075));
   const padL=fAx*3.4,padB=fDay*1.9,padT=fVal*1.8,padR=W*0.02+6;
   const nD=days.length||1,nS=series.length||1;
   let maxY=Math.max(1,...series.flatMap(s=>s.values));
@@ -372,13 +389,13 @@ function groupedBar(svgId,days,series){const svg=document.getElementById(svgId);
   let g='';
   for(let i=0;i<=4;i++){const y=padT+plotH*i/4,val=maxY*(1-i/4);
     g+=`<line x1="${padL}" y1="${y}" x2="${W-padR}" y2="${y}" stroke="rgba(0,0,0,.09)"/>`;
-    g+=`<text x="${padL-8}" y="${y+fAx*0.35}" text-anchor="end" font-size="${fAx}" fill="#777">${val>=1000?(val/1000).toLocaleString()+'k':val}</text>`;}
+    g+=`<text x="${padL-8}" y="${y+fAx*0.35}" text-anchor="end" font-size="${fAx}" font-weight="600" fill="#56706c">${val>=1000?(val/1000).toLocaleString()+'k':val}</text>`;}
   days.forEach((d,di)=>{
     const gx=padL+gW*di+(gW-bw*nS)/2;
     series.forEach((s,si)=>{const v=s.values[di]||0,h=plotH*v/maxY,x=gx+si*bw,y=padT+plotH-h;
       g+=`<rect x="${x+bw*0.08}" y="${padT+plotH}" width="${bw*0.84}" height="0" rx="${Math.min(5,bw*0.12)}" fill="${s.color}"><animate attributeName="y" to="${y}" dur=".9s" fill="freeze"/><animate attributeName="height" to="${h}" dur=".9s" fill="freeze"/></rect>`;
-      g+=`<text x="${x+bw/2}" y="${y-fVal*0.45}" text-anchor="middle" font-size="${fVal}" font-weight="700" fill="#444" opacity="0">${v.toLocaleString()}<animate attributeName="opacity" to="1" dur=".4s" begin=".8s" fill="freeze"/></text>`;});
-    g+=`<text x="${padL+gW*di+gW/2}" y="${H-fDay*0.55}" text-anchor="middle" font-size="${fDay}" font-weight="600" fill="#444">${d}</text>`;});
+      g+=`<text x="${x+bw/2}" y="${y-fVal*0.45}" text-anchor="middle" font-size="${fVal}" font-weight="800" fill="#173f3d" opacity="0">${v.toLocaleString()}<animate attributeName="opacity" to="1" dur=".4s" begin=".8s" fill="freeze"/></text>`;});
+    g+=`<text x="${padL+gW*di+gW/2}" y="${H-fDay*0.55}" text-anchor="middle" font-size="${fDay}" font-weight="700" fill="#2c4a47">${d}</text>`;});
   svg.setAttribute('viewBox',`0 0 ${W} ${H}`);svg.setAttribute('preserveAspectRatio','none');svg.innerHTML=g;}
 
 /* render */
@@ -403,10 +420,8 @@ function render(d){
 
   // emissions
   const em=d.emissions||{scopes:[]};
-  document.getElementById('emis-unit').textContent=em.unit||'tCO₂e';
   document.getElementById('scope-total').parentElement.querySelector('.dc-l').textContent=em.unit||'tCO₂e';
   const flash=prev.total!==undefined&&prev.total!==em.total;
-  aNum(document.getElementById('emis-num'),em.total||0,2);
   aNum(document.getElementById('scope-total'),em.total||0,2);
   const SC=['#E8956B','#F2B84B','#4E9E9A'];
   const SICON=['ic-flame','ic-bolt','ic-car'];
@@ -469,7 +484,19 @@ async function load(){
   try{const r=await fetch(dataUrl()+'?_='+Date.now(),{cache:'no-store'});lastData=await r.json();render(lastData);document.getElementById('loading').style.display='none';}
   catch(e){console.error(e);document.querySelector('#loading div').lastChild.textContent='Could not load data — check GitHub Action / data branch';}
 }
+function fitToViewport(){
+  const app=document.getElementById('app');
+  app.style.zoom=''; app.style.width=''; app.classList.remove('fit-natural');
+  if(window.innerWidth<=820) return;                          // mobile: ปล่อย scroll ปกติ
+  app.classList.add('fit-natural');                           // วัดความสูงธรรมชาติ (การ์ดเท่าเนื้อหา ไม่ตัด)
+  const need=app.scrollHeight, avail=window.innerHeight;
+  if(need<=avail+1){ app.classList.remove('fit-natural'); }   // พอดีอยู่แล้ว → คืน 100vh fill
+  else { const z=avail/need; app.style.zoom=z.toFixed(4); app.style.width=(100/z).toFixed(3)+'vw'; }  // ย่อพอดี + เติมความกว้าง
+}
+window.addEventListener('resize',()=>{clearTimeout(window._ft);window._ft=setTimeout(fitToViewport,120);});
+const _origLoad=load; load=async function(){await _origLoad();requestAnimationFrame(fitToViewport);};
 load();setInterval(load,REFRESH_MS);
+requestAnimationFrame(fitToViewport);
 let _rsz;window.addEventListener('resize',()=>{clearTimeout(_rsz);_rsz=setTimeout(()=>{if(lastData)render(lastData);},200);});
 document.getElementById('btn-fs').onclick=()=>{document.fullscreenElement?document.exitFullscreen?.():document.documentElement.requestFullscreen?.();};
 </script>